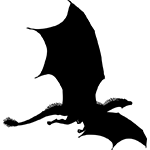
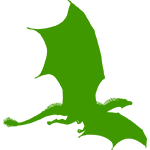
added random color changing to enemy tokens

diff --git a/assets/js/maps2.js b/assets/js/maps2.js
@@ -14,19 +14,27 @@ $( function() {
     var someArray = [];
   } )
 
+//color change random---------------------
+var randomColorize = function(){
+  var colorsArray = [ "colorM1", "colorM2", "colorM3", "colorM4", "colorM5", 'colorM6', 'colorM7']
+  console.log("running randomColorize")
+  return  colorsArray[Math.floor(Math.random()*6+.2)]
+}
+
 //SPAWNING MONSTERS-----------------------------------------------------
 
 //spon new monster to Drag
 var tokenNum = 2
 var createNewMonsterToken = function(){
-console.log(tokenNum)
+//console.log(tokenNum)
+var monsterColor = randomColorize()
 //make parent componant
 var parent = document.getElementById("newMonster")
 var style = document.createElement('div');
 style.classList.add("mymapdiv")
 style.classList.add("charTop")
 style.setAttribute("id", `mymapdivM${tokenNum}`)
-style.innerHTML = `<img src="./assets/images/Tokens/monster.png"><b>${tokenNum}</b>`;
+style.innerHTML = `<img class="${monsterColor}" src="./assets/images/Tokens/monster.png"><b>${tokenNum}</b>`;
 parent.appendChild(style);
 //make dragable
 $( function() {
@@ -36,24 +44,26 @@ $( function() {
     var someArray = [];
   } );
   //end
-console.log(style)
-console.log(tokenNum)
+//console.log(style)
+//console.log(tokenNum)
 tokenNum = tokenNum +1
 return
 }
+
 
 //spon new boss monster to Drag----------
 var bossTokenNum = 2
 var Trial = ""
 var createNewBossToken = function(){
-console.log(bossTokenNum)
+//console.log(bossTokenNum)
+monsterColor = randomColorize()
 //make parent componant
 var parent = $("#newBossMonster");
 var style = document.createElement('div');
 style.classList.add("mymapdiv")
 style.classList.add("charTop")
 style.setAttribute("id", `mymapdivB${bossTokenNum}`)
-style.innerHTML = `<img src="./assets/images/Tokens/boss.png"><b>${bossTokenNum}</b>`;
+style.innerHTML = `<img class="${monsterColor}" src="./assets/images/Tokens/boss.png"><b>${bossTokenNum}</b>`;
 parent.append(style);
 //make dragable
 $( function() {
@@ -63,8 +73,7 @@ $( function() {
     var someArray = [];
   } );
 //end
-console.log(style)
-console.log(bossTokenNum)
+//console.log(bossTokenNum)
 bossTokenNum = bossTokenNum +1
 return
 }

diff --git a/assets/maps.css b/assets/maps.css
@@ -42,13 +42,6 @@ min-width: 91px;
 background-color: rgba(250, 250, 250, .7);
 }
 
-/*terain tokens*/
-  .mymapdiv {
-    position: absolute;
-    z-index: 9;
-    opacity: .7;
-  }
-  
 /*class to keep characters tokenson top*/
   .charTop {
     z-index: 999;
@@ -73,25 +66,48 @@ background-color: rgba(250, 250, 250, .7);
   .width40{
     width:80px;
     display: flex;
-  flex:1;
-  margin: 5px 0px 0px 5px;
-  text-align: center;
-}
+    flex:1;
+    margin: 5px 0px 0px 5px;
+    text-align: center;
+  }
 
-.grave {
-  padding: 0px 20px;
-}
-.grave img{
-min-width:120px;
-min-height:129x;
-max-width:120px;
-max-height:129px;
-padding:10px;
-background:#00d5c6;
-margin-top:5px;
-border-radius: 25px;
-box-shadow:inset 0px 0px 20px #000,0px 0px 20px #000,inset 0px 0px 40px #000;
-}
+  .grave {
+    padding: 0px 20px;
+  }
+  .grave img{
+    min-width:120px;
+    min-height:129x;
+    max-width:120px;
+    max-height:129px;
+    padding:10px;
+    background:#00d5c6;
+    margin-top:5px;
+    border-radius: 25px;
+    box-shadow:inset 0px 0px 20px #000,0px 0px 20px #000,inset 0px 0px 40px #000;
+  }
+/* moster token color changing*/
+  .colorM1 {
+    filter: brightness(-30%);
+    filter: grayscale(20%);
+  }
+  .colorM2 {
+    filter: hue-rotate(60deg);
+    filter: grayscale(40%);
+  }
+  .colorM3 {
+    filter: grayscale(60%);
+  }
+  .colorM4 {
+    filter: brightness(20%);
+    filter: grayscale(80%);
+  }
+  .colorM5 {
+    filter: grayscale(100%);
+  }
+  .colorM6 {
+    filter: grayscale(0%);    
+  }
+
 /*map area and saving and clearing*/
   .map-bg {
     background-image: url('../assets/images/grid3.jpg');

diff --git a/maps.html b/maps.html
@@ -93,7 +93,7 @@
                     <div class="width20" id="newMonster">
                         <button onclick="createNewMonsterToken()">Get New<br>Enemy</button>
                         <div id="small-monster" class="mymapdiv charTop">    
-                            <img src="./assets/images/Tokens/monster.png"><b>1</b> 
+                            <img class="colorM3" src="./assets/images/Tokens/monster.png"><b>1</b> 
                         </div>                        
                     </div> 
                 </div>
@@ -102,7 +102,7 @@
                     <div class="width40 big" id="newBossMonster">
                         <button onclick="createNewBossToken()">Get New<br>Big Enemy</button> 
                         <div id="large-monster" class="mymapdiv charTop">    
-                            <img src="./assets/images/Tokens/boss.png"><b>1</b>
+                            <img class="colorM3" src="./assets/images/Tokens/boss.png"><b>1</b>
                         </div>                         
                     </div> 
                 </div>
